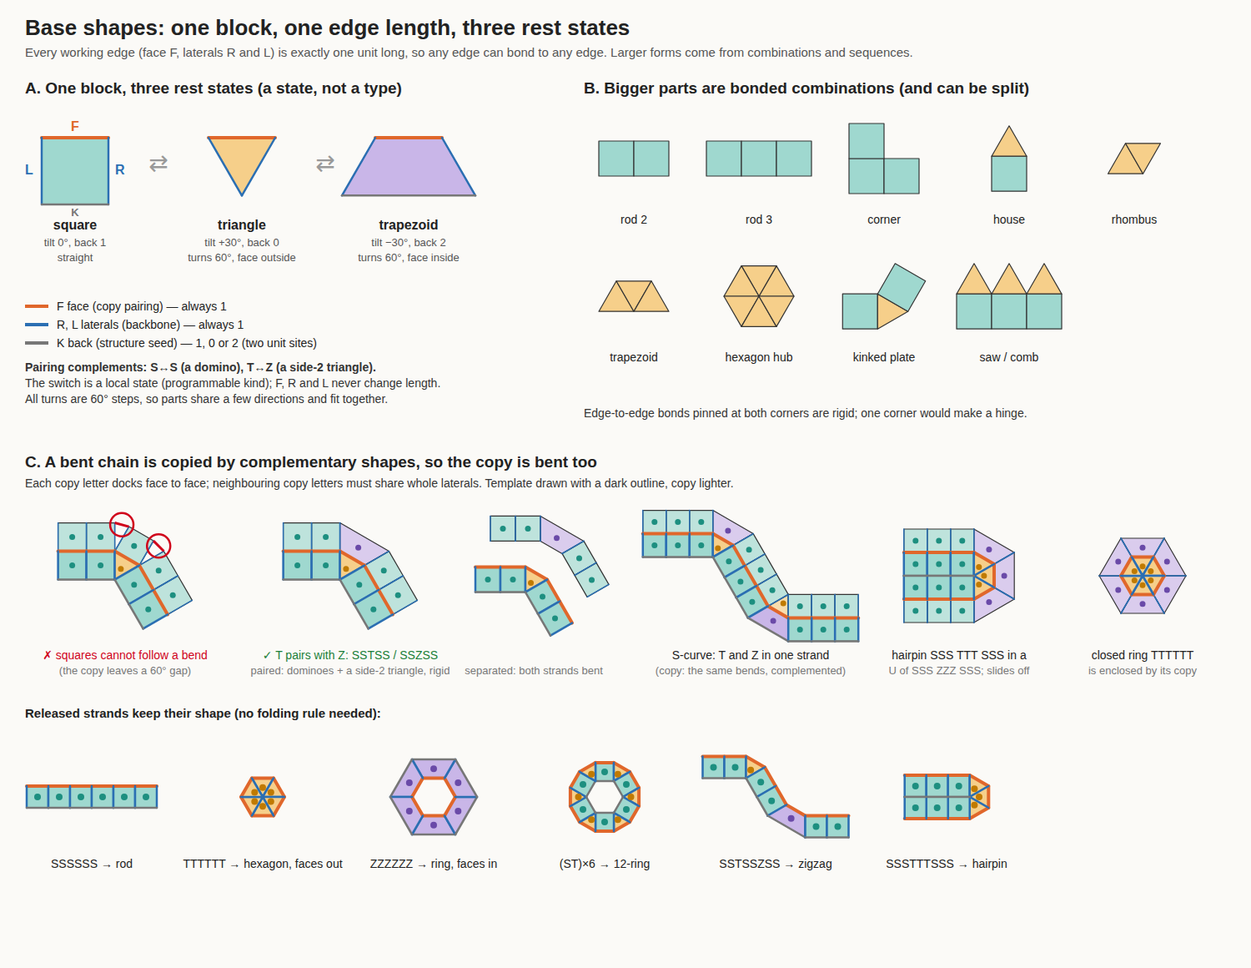
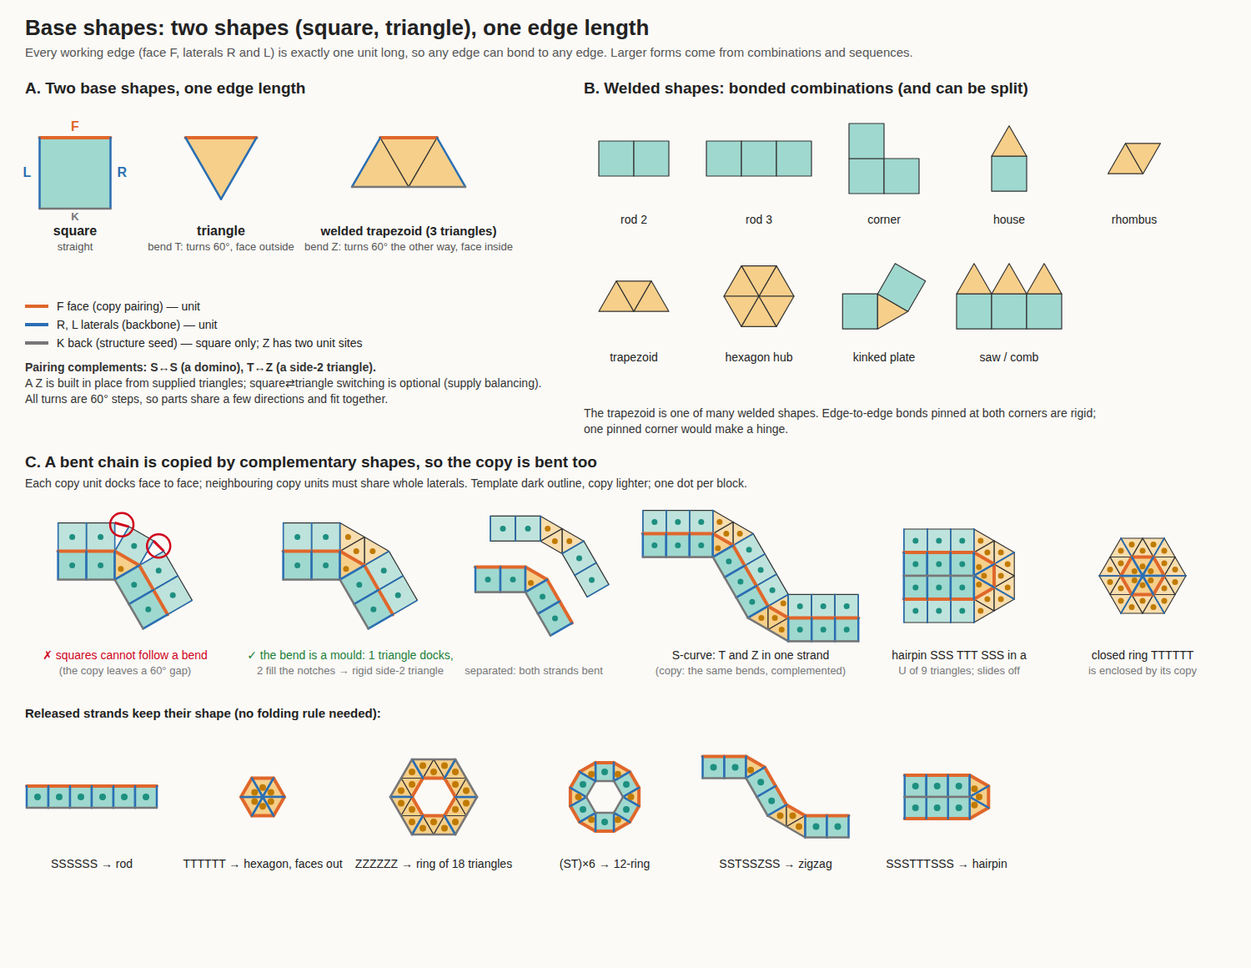
Shape alphabet: square and triangle only; trapezoid is a welded shape; bends copied by moulding
Claude-Session: https://claude.ai/code/session_01VtpG8Ywug1D5xVMLg9cFXu

diff --git a/experiments/shape_alphabet_figure.js b/experiments/shape_alphabet_figure.js
@@ -4,15 +4,15 @@
 // the laterals tilt by theta and the back K becomes 1-2 sin(theta).
 //   S theta=0    -> square    (back 1; chain goes straight)
 //   T theta=+30  -> triangle  (back 0; chain turns 60 degrees, face on the convex side)
-//   Z theta=-30  -> trapezoid (back 2; chain turns 60 degrees the other way, face on the concave side)
-// Copying pairs faces, and a bent double strand must be one rigid piece: S pairs with S (a 1x2 domino),
-// T pairs with Z (together a side-2 triangle). So shape is copied by complementary shape letters, like A-T.
-// (No wedge state: 60-degree steps keep parts on shared directions.)
+//   Z = three welded triangles (a trapezoid, back 2; turns 60 degrees the other way, face on the concave side)
+// Base shapes are only the square and the triangle (user, 2026-09-30). Copying pairs faces, and a bent double strand
+// must be one rigid piece: S pairs with S (a 1x2 domino), T pairs with Z (together a side-2 triangle). The Z is not a
+// separate shape: a triangle docks on the T face and two more fill the notches beside it (the bend is a mould).
 // Usage: node experiments/shape_alphabet_figure.js [OUT.png]
 const fs=require('fs'),path=require('path'),{execFileSync}=require('child_process');
 const out=process.argv[2]||'experiments/out/SHAPES_alphabet_20260930.png';
 const D=Math.PI/180,TILT={S:0,T:30*D,Z:-30*D},COMP={S:'S',T:'Z',Z:'T'};
-const COL={S:'#9fd8cf',T:'#f6cf8a',Z:'#c9b6e8'},DOT={S:'#1d8f80',T:'#c07a00',Z:'#6a4aa8'},FACE='#e0672b',LAT='#2b6fb3',BACK='#777';
+const COL={S:'#9fd8cf',T:'#f6cf8a',Z:'#f6cf8a'},DOT={S:'#1d8f80',T:'#c07a00',Z:'#c07a00'},FACE='#e0672b',LAT='#2b6fb3',BACK='#777';
 
 // ---- block and chain geometry (math coords, y up; faces point +y) ----
 function block(th){const s=Math.sin(th),c=Math.cos(th);
@@ -47,7 +47,12 @@ const txt=(x,y,s,o={})=>parts.push(`<text x="${x}" y="${y}" font-family="Helveti
 function view(ox,oy,sc){return p=>[ox+p[0]*sc,oy-p[1]*sc];}
 function poly(V,pts,fill){parts.push(`<polygon points="${pts.map(p=>V(p).map(z=>z.toFixed(1)).join(',')).join(' ')}" fill="${fill}" stroke="#333" stroke-width="1.2" stroke-linejoin="round"/>`);}
 function seg(V,a,b,col,w){const A=V(a),B=V(b);parts.push(`<line x1="${A[0].toFixed(1)}" y1="${A[1].toFixed(1)}" x2="${B[0].toFixed(1)}" y2="${B[1].toFixed(1)}" stroke="${col}" stroke-width="${w}" stroke-linecap="round"/>`);}
-function drawBlock(V,b,fill,edges=true){poly(V,[b.fL,b.fR,b.bR,b.bL],fill);
+const mid=(a,b)=>[(a[0]+b[0])/2,(a[1]+b[1])/2],cen=(...q)=>[q.reduce((z,p)=>z+p[0],0)/q.length,q.reduce((z,p)=>z+p[1],0)/q.length];
+const isZ=b=>Math.hypot(b.bR[0]-b.bL[0],b.bR[1]-b.bL[1])>1.5;
+function subTris(b){const m=mid(b.bL,b.bR);return [[b.fL,b.bL,m],[b.fL,m,b.fR],[b.fR,m,b.bR]];}
+function dotsOf(b){if(isZ(b))return subTris(b).map(t=>cen(...t));return [cen(b.fL,b.fR,b.bR,b.bL)];}
+function drawBlock(V,b,fill,edges=true){
+  if(isZ(b))for(const t of subTris(b))poly(V,t,fill);else poly(V,[b.fL,b.fR,b.bR,b.bL],fill);
   if(edges){seg(V,b.fL,b.fR,FACE,4);seg(V,b.fR,b.bR,LAT,2.5);seg(V,b.bL,b.fL,LAT,2.5);
     if(Math.hypot(b.bR[0]-b.bL[0],b.bR[1]-b.bL[1])>1e-6)seg(V,b.bR,b.bL,BACK,2.5);}}
 function bbox(pts){let x0=1e9,y0=1e9,x1=-1e9,y1=-1e9;for(const p of pts){x0=Math.min(x0,p[0]);x1=Math.max(x1,p[0]);y0=Math.min(y0,p[1]);y1=Math.max(y1,p[1]);}return {x0,y0,x1,y1};}
@@ -55,7 +60,7 @@ function drawChainAt(cx,cy,sc,seq,opt={}){  // centre a chain drawing on (cx,cy)
   const C=chain(seq,opt.square),bb=bbox(C.flatMap(b=>[b.fL,b.fR,b.bR,b.bL]));
   const V=view(cx-(bb.x0+bb.x1)/2*sc,cy+(bb.y0+bb.y1)/2*sc,sc);
   for(const b of C)drawBlock(V,b,COL[b.ch],opt.edges!==false);
-  if(opt.dots)for(const b of C){const m=V([(b.fL[0]+b.fR[0]+b.bR[0]+b.bL[0])/4,(b.fL[1]+b.fR[1]+b.bR[1]+b.bL[1])/4]);
+  if(opt.dots)for(const b of C)for(const q of dotsOf(b)){const m=V(q);
     parts.push(`<circle cx="${m[0].toFixed(1)}" cy="${m[1].toFixed(1)}" r="4" fill="${DOT[b.ch]}"/>`);}
   return bb;
 }
@@ -64,29 +69,29 @@ function drawPolys(cx,cy,sc,list){const bb=bbox(list.flatMap(p=>p.pts));
   for(const p of list)poly(V,p.pts,p.fill);}
 
 parts.push(`<rect width="${W}" height="${H}" fill="#fbfaf7"/>`);
-txt(30,42,'Base shapes: one block, one edge length, three rest states',{size:26,weight:'bold'});
+txt(30,42,'Base shapes: two shapes (square, triangle), one edge length',{size:26,weight:'bold'});
 txt(30,68,'Every working edge (face F, laterals R and L) is exactly one unit long, so any edge can bond to any edge. Larger forms come from combinations and sequences.',{size:15,fill:'#555'});
 
-// ---- Panel A: the family ----
-txt(30,112,'A. One block, three rest states (a state, not a type)',{size:19,weight:'bold'});
-const sc=80;
-[['S','square','tilt 0°, back 1','straight'],['T','triangle','tilt +30°, back 0','turns 60°, face outside'],['Z','trapezoid','tilt −30°, back 2','turns 60°, face inside']].forEach(([k,name,geo,turn],i)=>{
-  const cx=90+i*200,cy=165,V=view(cx,cy,sc);drawBlock(V,block(TILT[k]),COL[k]);
-  txt(cx,cy+sc+30,name,{anchor:'middle',weight:'bold'});txt(cx,cy+sc+50,geo,{anchor:'middle',size:13,fill:'#555'});
-  txt(cx,cy+sc+68,turn,{anchor:'middle',size:13,fill:'#555'});
-  if(i===0){txt(cx,cy-8,'F',{anchor:'middle',fill:FACE,weight:'bold'});txt(cx+sc*.5+8,cy+sc*.55,'R',{fill:LAT,weight:'bold'});
-    txt(cx-sc*.5-20,cy+sc*.55,'L',{fill:LAT,weight:'bold'});txt(cx,cy+sc+14,'K',{anchor:'middle',fill:BACK,weight:'bold',size:13});}
-  if(i<2)txt(cx+100,cy+sc*.5,'⇄',{anchor:'middle',size:28,fill:'#999'});
-});
+// ---- Panel A: two base shapes ----
+txt(30,112,'A. Two base shapes, one edge length',{size:19,weight:'bold'});
+const sc=85;
+{let V=view(90,165,sc);drawBlock(V,block(0),COL.S);
+  txt(90,157,'F',{anchor:'middle',fill:FACE,weight:'bold'});txt(90+sc*.5+8,165+sc*.55,'R',{fill:LAT,weight:'bold'});
+  txt(90-sc*.5-20,165+sc*.55,'L',{fill:LAT,weight:'bold'});txt(90,165+sc+14,'K',{anchor:'middle',fill:BACK,weight:'bold',size:13});
+  txt(90,165+sc+32,'square',{anchor:'middle',weight:'bold'});txt(90,165+sc+50,'straight',{anchor:'middle',size:13,fill:'#555'});
+  V=view(265,165,sc);drawBlock(V,block(TILT.T),COL.T);
+  txt(265,165+sc+32,'triangle',{anchor:'middle',weight:'bold'});txt(265,165+sc+50,'bend T: turns 60°, face outside',{anchor:'middle',size:13,fill:'#555'});
+  V=view(490,165,sc*.8);drawBlock(V,block(TILT.Z),COL.Z);
+  txt(490,165+sc+32,'welded trapezoid (3 triangles)',{anchor:'middle',weight:'bold',size:15});txt(490,165+sc+50,'bend Z: turns 60° the other way, face inside',{anchor:'middle',size:13,fill:'#555'});}
 const ax=30,ay=372;
-[['F face (copy pairing) — always 1',FACE],['R, L laterals (backbone) — always 1',LAT],['K back (structure seed) — 1, 0 or 2 (two unit sites)',BACK]].forEach(([s,c],i)=>{
+[['F face (copy pairing) — unit',FACE],['R, L laterals (backbone) — unit',LAT],['K back (structure seed) — square only; Z has two unit sites',BACK]].forEach(([s,c],i)=>{
   parts.push(`<line x1="${ax}" y1="${ay+i*22-5}" x2="${ax+28}" y2="${ay+i*22-5}" stroke="${c}" stroke-width="4"/>`);txt(ax+38,ay+i*22,s,{size:14});});
 txt(30,445,'Pairing complements: S↔S (a domino), T↔Z (a side-2 triangle).',{size:14,fill:'#333',weight:'bold'});
-txt(30,464,'The switch is a local state (programmable kind); F, R and L never change length.',{size:14,fill:'#333'});
+txt(30,464,'A Z is built in place from supplied triangles; square⇄triangle switching is optional (supply balancing).',{size:14,fill:'#333'});
 txt(30,483,'All turns are 60° steps, so parts share a few directions and fit together.',{size:14,fill:'#333'});
 
 // ---- Panel B: composite parts ----
-txt(700,112,'B. Bigger parts are bonded combinations (and can be split)',{size:19,weight:'bold'});
+txt(700,112,'B. Welded shapes: bonded combinations (and can be split)',{size:19,weight:'bold'});
 const s0=reg(4,[0,0],[1,0]),s1=attach(s0,R,4),s2=attach(s1,R,4);
 const t0=reg(3,[0,0],[1,0]),t1=attach(t0,deg(30),3),t2=attach(t1,deg(-30),3);
 const hex=[];for(let k=0;k<6;k++)hex.push({pts:[[0,0],deg(k*60),deg(k*60+60)],fill:COL.T});
@@ -108,11 +113,12 @@ const gallery=[
 ];
 gallery.forEach(([name,list],i)=>{const col=i%5,row=(i/5)|0,cx=760+col*150,cy=190+row*165;
   drawPolys(cx,cy,42,list);txt(cx,cy+78,name,{anchor:'middle',size:14});});
-txt(700,500,'Edge-to-edge bonds pinned at both corners are rigid; one corner would make a hinge.',{size:14,fill:'#333'});
+txt(700,500,'The trapezoid is one of many welded shapes. Edge-to-edge bonds pinned at both corners are rigid;',{size:14,fill:'#333'});
+txt(700,519,'one pinned corner would make a hinge.',{size:14,fill:'#333'});
 
 // ---- Panel C: copying a bent chain ----
 txt(30,560,'C. A bent chain is copied by complementary shapes, so the copy is bent too',{size:19,weight:'bold'});
-txt(30,584,'Each copy letter docks face to face; neighbouring copy letters must share whole laterals. Template drawn with a dark outline, copy lighter.',{size:14,fill:'#333'});
+txt(30,584,'Each copy unit docks face to face; neighbouring copy units must share whole laterals. Template dark outline, copy lighter; one dot per block.',{size:14,fill:'#333'});
 function drawDouble(cx,cy,sc,seq,opt={}){
   const C=chain(seq);let K=copyOf(C,opt.comp);
   if(opt.split){const c=q=>q.reduce((a,b)=>[a[0]+(b.fL[0]+b.bR[0])/2/q.length,a[1]+(b.fL[1]+b.bR[1])/2/q.length],[0,0]);
@@ -120,9 +126,9 @@ function drawDouble(cx,cy,sc,seq,opt={}){
     K=K.map(k=>({fL:m(k.fL),fR:m(k.fR),bR:m(k.bR),bL:m(k.bL),ch:k.ch}));}
   const all=[...C,...K].flatMap(b=>[b.fL,b.fR,b.bR,b.bL]),bb=bbox(all);
   const V=view(cx-(bb.x0+bb.x1)/2*sc,cy+(bb.y0+bb.y1)/2*sc,sc);
-  if(!opt.hideCopy)for(const b of K){poly(V,[b.fL,b.fR,b.bR,b.bL],COL[b.ch]+'aa');seg(V,b.fR,b.bR,LAT,1.5);seg(V,b.bL,b.fL,LAT,1.5);}
+  if(!opt.hideCopy)for(const b of K){if(isZ(b))for(const t of subTris(b))poly(V,t,COL[b.ch]+'aa');else poly(V,[b.fL,b.fR,b.bR,b.bL],COL[b.ch]+'aa');seg(V,b.fR,b.bR,LAT,1.5);seg(V,b.bL,b.fL,LAT,1.5);}
   for(const b of C)drawBlock(V,b,COL[b.ch]);
-  for(const b of (opt.hideCopy?C:[...C,...K])){const m=V([(b.fL[0]+b.fR[0]+b.bR[0]+b.bL[0])/4,(b.fL[1]+b.fR[1]+b.bR[1]+b.bL[1])/4]);
+  for(const b of (opt.hideCopy?C:[...C,...K]))for(const q of dotsOf(b)){const m=V(q);
     parts.push(`<circle cx="${m[0].toFixed(1)}" cy="${m[1].toFixed(1)}" r="3.5" fill="${DOT[b.ch]}"/>`);}
   let worst=0;for(let i=0;i+1<K.length;i++){const g=gapOf(K,i);worst=Math.max(worst,g);
     if(g>1e-6&&!opt.hideCopy&&!opt.split){const A=V(K[i].bL),B=V(K[i+1].bR);
@@ -135,8 +141,8 @@ checks.push(['square copy at a T',drawDouble(150,690,34,'SSTSS',{comp:{S:'S',T:'
 txt(150,790,'✗ squares cannot follow a bend',{anchor:'middle',size:14,fill:'#d0021b'});
 txt(150,808,'(the copy leaves a 60° gap)',{anchor:'middle',size:13,fill:'#777'});
 checks.push(['SSTSS',drawDouble(420,690,34,'SSTSS')]);
-txt(420,790,'✓ T pairs with Z: SSTSS / SSZSS',{anchor:'middle',size:14,fill:'#1a7f37'});
-txt(420,808,'paired: dominoes + a side-2 triangle, rigid',{anchor:'middle',size:13,fill:'#777'});
+txt(420,790,'✓ the bend is a mould: 1 triangle docks,',{anchor:'middle',size:14,fill:'#1a7f37'});
+txt(420,808,'2 fill the notches → rigid side-2 triangle',{anchor:'middle',size:13,fill:'#777'});
 drawDouble(650,690,30,'SSTSS',{split:1.2});
 txt(640,808,'separated: both strands bent',{anchor:'middle',size:13,fill:'#777'});
 checks.push(['S-curve',drawDouble(900,690,28,'SSSTSSSZSSS')]);
@@ -144,13 +150,13 @@ txt(900,790,'S-curve: T and Z in one strand',{anchor:'middle',size:14});
 txt(900,808,'(copy: the same bends, complemented)',{anchor:'middle',size:13,fill:'#777'});
 checks.push(['hairpin',drawDouble(1150,690,28,'SSSTTTSSS')]);
 txt(1150,790,'hairpin SSS TTT SSS in a',{anchor:'middle',size:14});
-txt(1150,808,'U of SSS ZZZ SSS; slides off',{anchor:'middle',size:13,fill:'#777'});
+txt(1150,808,'U of 9 triangles; slides off',{anchor:'middle',size:13,fill:'#777'});
 checks.push(['ring',drawDouble(1370,690,26,'TTTTTT')]);
 txt(1370,790,'closed ring TTTTTT',{anchor:'middle',size:14});
 txt(1370,808,'is enclosed by its copy',{anchor:'middle',size:13,fill:'#777'});
 // single strands
 txt(30,860,'Released strands keep their shape (no folding rule needed):',{size:15,weight:'bold'});
-[['SSSSSS','rod'],['TTTTTT','hexagon, faces out'],['ZZZZZZ','ring, faces in'],['(ST)×6','12-ring','STSTSTSTSTST'],['SSTSSZSS','zigzag'],['SSSTTTSSS','hairpin']].forEach(([cap,d,seq],i)=>{
+[['SSSSSS','rod'],['TTTTTT','hexagon, faces out'],['ZZZZZZ','ring of 18 triangles'],['(ST)×6','12-ring','STSTSTSTSTST'],['SSTSSZSS','zigzag'],['SSSTTTSSS','hairpin']].forEach(([cap,d,seq],i)=>{
   const cx=110+i*205,cy=955;drawChainAt(cx,cy,i===3?22:26,seq||cap,{dots:true});txt(cx,1040,cap+' → '+d,{anchor:'middle',size:14});});
 for(const [n,g] of checks)console.log('copy lateral gap',n,g.toFixed(3));
 

diff --git a/docs/COMPLEXITY_MAP.md b/docs/COMPLEXITY_MAP.md
@@ -122,40 +122,40 @@ inertia follow the polygon). Viability look: a comb whose B seeds one 3x1 rod is
 intended. In that world the armed founder stayed paired for 30k steps without finishing a
 copy (the partner B, attached by its face, may grow a rod that jams); PAAQ made 4.
 
-## 3e. Base shapes: one block, three rest states, complementary pairing (design, 2026-09-30)
+## 3e. Base shapes: square and triangle, one edge length; welded shapes; bends copied by moulding (design, 2026-09-30)
 
 Picture: `experiments/out/SHAPES_alphabet_20260930.png` (script `experiments/shape_alphabet_figure.js`,
 which also checks the copy geometry numerically). Stay simple and general; complex forms
-should come from combinations and sequences.
+come from combinations and sequences (user, 2026-09-30).
 
-- **One family, not several types.** A 4-cornered block whose face F and laterals R, L are always
-  exactly one unit long, so any working edge bonds to any other. Its state tilts the laterals, and
-  the back K becomes `1 - 2 sin(tilt)`:
-  - **square S** (tilt 0, back 1): straight;
-  - **triangle T** (tilt +30°, back 0): turns 60° with the face outside;
-  - **trapezoid Z** (tilt −30°, back 2, i.e. three welded unit triangles): turns 60° the other way, with the face inside.
-
-  The switch is a rest-shape change, like the core fold; the vertex count never changes (T has a zero-length back, and a tiny nonzero back is safer numerically).
-- **No wedge** (user, 2026-09-30). Every turn is a 60° step, so chains and parts share six
-  directions and meet edge to edge. Squares add 90° joints in combinations.
-- **Copying a bent chain (user correction, 2026-09-30).** A chain whose shape is its own must be copyable while bent.
-  - A square copy at a triangle letter cannot follow the bend: neighbouring copy letters leave a 60° gap (0.52 units).
-  - Instead, shapes pair as complements: **S↔S** (a 1×2 domino) and **T↔Z** (a side-2 triangle). The copy's squares attach to the trapezoid's angled legs.
-  - A bent double strand is then one rigid piece of dominoes and big triangles. Every pair of neighbouring copy letters shares a whole lateral (checked: gap 0).
-  - Shape is copied like a letter, by complementarity. The copy of a copy restores the original shapes.
-  - A wrong-shape docking at a bend physically cannot bond to both neighbours, so it is rejected mechanically.
+- **Two base shapes only: the unit square and the unit triangle.** Every working edge is one unit
+  long, so any edge bonds to any other. The square has a face F, laterals R and L, and a back K.
+  In a chain, a triangle uses one edge as its face and two as laterals, so it is a **bend T**:
+  it turns 60° with the face outside.
+  - No wedge, and no trapezoid shape.
+  - Every turn is a 60° step, so chains and parts share six directions and meet edge to edge. Squares add 90° joints.
+  - A square⇄triangle state switch is optional (supply balancing). Otherwise the simulation supplies both shapes.
+- **Welded shapes.** Bigger parts are bonded combinations: rods, corners, rhombi, trapezoids,
+  hexagon hubs, houses, kinked plates and saws. A two-corner pin is rigid, one pin is a hinge, and releasing bonds splits a part.
+  The trapezoid (three triangles) is just one of many useful welded shapes (user).
+- **Copying a bent chain (user corrections, 2026-09-30).**
+  - A square copy at a T bend leaves a 60° gap (0.52 units): the copy's neighbours cannot bond.
+  - The complement of a T bend is a trapezoid, a **Z bend**, which turns the other way with the face inside. The copy's squares attach to its angled legs.
+  - Paired, S+S is a domino and T+Z is a side-2 triangle, so a bent double strand is one rigid piece. Every pair of neighbouring copy units shares a whole lateral (checked: gap 0).
+  - The Z is built **in place from supplied triangles**. One triangle docks face to face on the T. That leaves two 60° notches between it and the neighbouring copy squares, each exactly one unit triangle, which free triangles fill. **The template bend is a mould.**
+  - Copying a Z bend back takes a single triangle on its short face, so the copy of a copy restores the T. Shape is inherited by complementarity.
+  - Copying costs triangles unevenly: 3 per T bend, 1 per Z bend. A simulation that wants such shapes must supply enough triangles (user).
 - **Consequences.**
   - No fold/unfold rule is needed: strands are bent while copied and after release.
-  - A strand can hold both T and Z, so S-curves and zigzags are possible. Faces sit on the outside at T bends and inside at Z bends.
-  - Examples: SSSSSS is a rod; TTTTTT is a hexagon with faces out; ZZZZZZ is a ring with faces in; (ST)×6 is a 12-ring; SSS TTT SSS is a hairpin, whose copy SSS ZZZ SSS is a U that slides off.
-  - Only S and Z keep a back port (Z has two unit sites), so structures seed from those.
+  - One strand can hold both bends, so S-curves and zigzags are possible.
+  - Examples: SSSSSS is a rod; TTTTTT is a hexagon with faces out; ZZZZZZ is a ring of 18 triangles with faces in; (ST)×6 is a 12-ring; SSS TTT SSS is a hairpin, whose copy (a U of 9 triangles and squares) slides off.
+  - Structure seeds sit on square backs (or the Z's two unit back sites).
 - **Open problems and questions.**
-  - **Closed rings cannot separate:** in 2D a TTTTTT ring is enclosed by its ZZZZZZ copy. Rings would have to be copied open and then close, or open to release. This might also be a feature: a ring copy as an enclosing wall.
-  - Does docking at bends work kinetically? The copy's bent geometry needs neighbours to rotate into place.
-  - Mass changes with state (areas 1, 0.43, 1.3): keep it constant, or follow the polygon.
-- **First demo.** Add `shapeStates` to the seeded engine (kind → tilt; T and Z pair faces). A bent
-  founder SSTSS copies into SSZSS, and a copy of that copy returns SSTSS; an S-curve founder copies
-  with both bends.
+  - **Closed rings cannot separate:** in 2D a TTTTTT ring is enclosed by its copy. Rings would have to be copied open and then close, or open to release. The copy could also be a feature, as an enclosing wall.
+  - Kinetics of notch filling: triangle edges must accept both face and lateral roles, and a notch triangle binds two open laterals at once (activation by attachment).
+  - Do free triangles weld into unwanted clumps? Triangles probably need to be inert until they touch an attached edge.
+- **First demo.** Square and triangle blocks, with triangle edges acting as face or lateral. A bent
+  SSTSS founder copies with a moulded Z bend, and a copy of the copy restores the T.
 
 ## 4. Combinations worth trying (the map)
 

diff --git a/ROADMAP.md b/ROADMAP.md
@@ -33,7 +33,7 @@ saturates in closed worlds; supply is fixed by the starting soup; motion is pure
 | 7 | **Adhesion and colonies** | Walls with sticky outer ports hold sibling cells together: multicellular groups | Outer wall label that binds other walls; picture of a colony of Ds |
 | 8 | **Predation and theft** | A part that pulls bonds or parts off other organisms: arms races from conserved material | A "hook" part whose contact releases a neighbour's growth bond and captures the part |
 | 9 | **Two-step replication** | The chain seeds a transcript that seeds structures (DNA/RNA-like), decoupling copying from building | A short copied strand that detaches and seeds a structure elsewhere |
-| 10 | **Small shape alphabet (user refinement, 2026-09-30; preferred over pure tiles)** — design drawn (COMPLEXITY_MAP 3e: square/triangle/trapezoid states of one block, no wedge; bent chains copied by complementary shapes S↔S, T↔Z); next: build the demo | A few similar-size block shapes that share **unit-length working edges** (face and laterals) and differ in back and angles: square (straight), wedge (curls a run), half-square or triangle (corners). Any of them can be a chain letter, so the **sequence encodes the chain's own shape** (a shape-programmable polymer), and copying stays shape-agnostic. **Switching** is a state: the programmable `kind` selects the rest shape (square or wedge), like the core fold rule, so blanks cover shape supply too and a chain can fold after release. **Bigger parts** are 2–3 squares bonded by existing mechanisms and splittable; intentional length comes from copying ("rod genes": short chains copied and released as parts, backlog 9) | A chain with square and wedge letters copies faithfully and each copy folds to the shape its sequence encodes; then a blank square reprogrammed to a wedge |
+| 10 | **Small shape alphabet (user refinement, 2026-09-30; preferred over pure tiles)** — design drawn (COMPLEXITY_MAP 3e: base shapes square and triangle only, welded shapes beyond; a triangle is a 60° bend; bends copied by moulding, with triangles filling a trapezoid on the bend's face); next: build the demo | A few similar-size block shapes that share **unit-length working edges** (face and laterals) and differ in back and angles: square (straight), wedge (curls a run), half-square or triangle (corners). Any of them can be a chain letter, so the **sequence encodes the chain's own shape** (a shape-programmable polymer), and copying stays shape-agnostic. **Switching** is a state: the programmable `kind` selects the rest shape (square or wedge), like the core fold rule, so blanks cover shape supply too and a chain can fold after release. **Bigger parts** are 2–3 squares bonded by existing mechanisms and splittable; intentional length comes from copying ("rod genes": short chains copied and released as parts, backlog 9) | A chain with square and wedge letters copies faithfully and each copy folds to the shape its sequence encodes; then a blank square reprogrammed to a wedge |
 | 10b | **Universal tiles and welding** (earlier variant) | Labels can be reprogrammed (blanks), but shapes cannot. Universal small tiles (equilateral triangles, or unit squares plus half-square triangles) weld edge to edge into custom parts; a weld pinned at both corners of a shared edge is rigid in 2D, one corner makes a hinge. Welds are durable but broken by hot zones or an unwelding port. Welding only where a **jig** (a chain-seeded structure) holds tiles in place, so part length and form come from the organism (a mould), not from chance. Free tiles are universal supply; the environment recycles unused parts. Unifies shape supply with label supply (blanks become tiles, enzymes become jigs and writers) | Triangles only; a jig holds two free triangles edge to edge, they weld into a rhombus, the rhombus is released and seeds ordinary growth elsewhere. Picture of tiles becoming parts becoming structures |
 | 11 | **Enclosure with copying inside** | A real compartment: wall around the chain, with parts entering through gates | Full ring wall with a gate part that admits letters |
 

diff --git a/docs/INNOVATIONS.md b/docs/INNOVATIONS.md
@@ -6,12 +6,13 @@ screens), **partial**, **not yet**. Batches and their numbers live in RESULTS/LE
 
 ## 2026-09-30
 
-- **Base-shape alphabet** (design, user direction) — not yet built. One block family with unit
-  face and lateral edges and three rest states: square (straight), triangle (60° turn, face out),
-  trapezoid (60° turn, face in). No wedge. Bent chains are copied by complementary shapes: S↔S,
-  T↔Z, so a paired bend is a rigid side-2 triangle and the copy is bent too (user correction; a
-  square copy leaves a gap). Picture: `experiments/out/SHAPES_alphabet_20260930.png`; details in
-  COMPLEXITY_MAP 3e. Next: a `shapeStates` demo copying a bent founder.
+- **Base-shape alphabet** (design, user direction) — not yet built. Two base shapes (unit
+  square and unit triangle); everything else is welded (the trapezoid is one of many). A triangle in a
+  chain is a 60° bend. A bent chain is copied because the bend is a mould: one triangle docks on the
+  bend's face and two fill the notches, forming the complementary trapezoid bend. Paired, the bend is a
+  rigid side-2 triangle (a square copy would leave a gap). Picture:
+  `experiments/out/SHAPES_alphabet_20260930.png`; details in COMPLEXITY_MAP 3e. Next: demo copying a
+  bent founder.
 - **Funnel on the caps** (user idea) — partial/promising. Each cap's outer side seeds one custom
   parallelogram blade (C on P, mirrored D on Q) that leans toward the copying face. Blades are
   rebuilt on every copy. Demo (one seed each, 30k steps, 2 PAAQ founders): 7 chains and 26 face

diff --git a/docs/NEXT_INSTANCE.md b/docs/NEXT_INSTANCE.md
@@ -27,10 +27,10 @@ backlog; take the top unblocked item.
   (rods won there: D share 0.71). Recorded in ROADMAP "Parked evidence"; start nothing like it.
 - Funnel: tune lean and length so both blades point at the copying face (some splay outward).
 - **Next build (user focus): the base-shape alphabet** (COMPLEXITY_MAP 3e, picture
-  `experiments/out/SHAPES_alphabet_20260930.png`). One block family (unit face and laterals):
-  square / triangle / trapezoid rest states (no wedge). Bent chains copy by complementary shapes
-  (S↔S, T↔Z; a paired bend is a side-2 triangle). Demo: a bent SSTSS founder copies into SSZSS.
-  Open: closed rings are enclosed by their copies.
+  `experiments/out/SHAPES_alphabet_20260930.png`). Base shapes: unit square and unit triangle only;
+  trapezoids and other parts are welded. A triangle in a chain is a 60° bend; the bend is a mould
+  whose copy is a trapezoid of three triangles (one docks, two fill notches). Demo: a bent SSTSS
+  founder copies. Open: closed rings are enclosed by their copies.
 
 ## User ideas to keep (also in ROADMAP/IDEAS)
 
